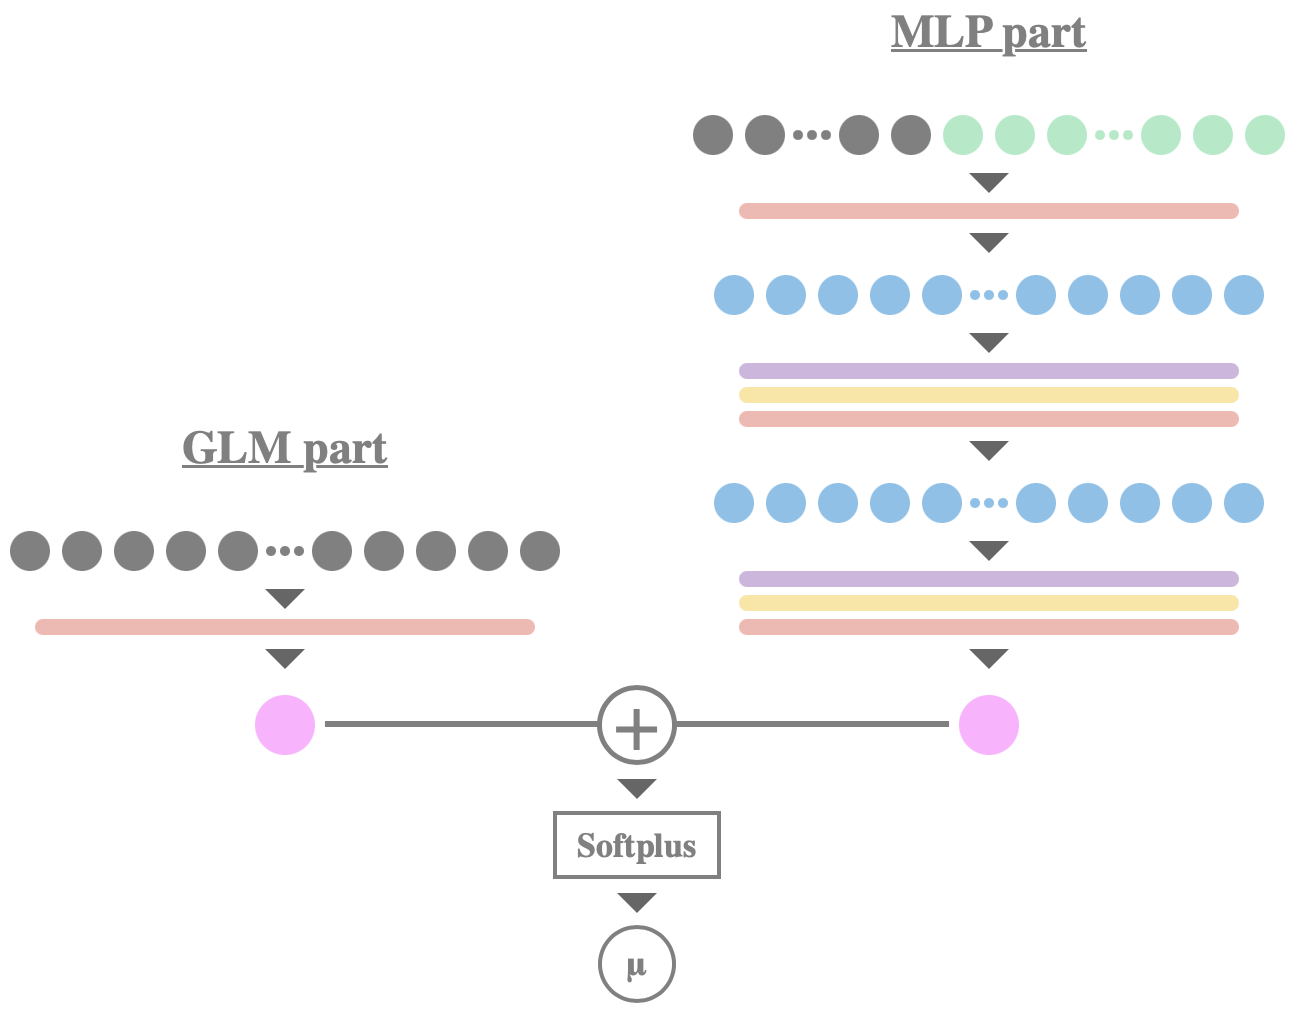
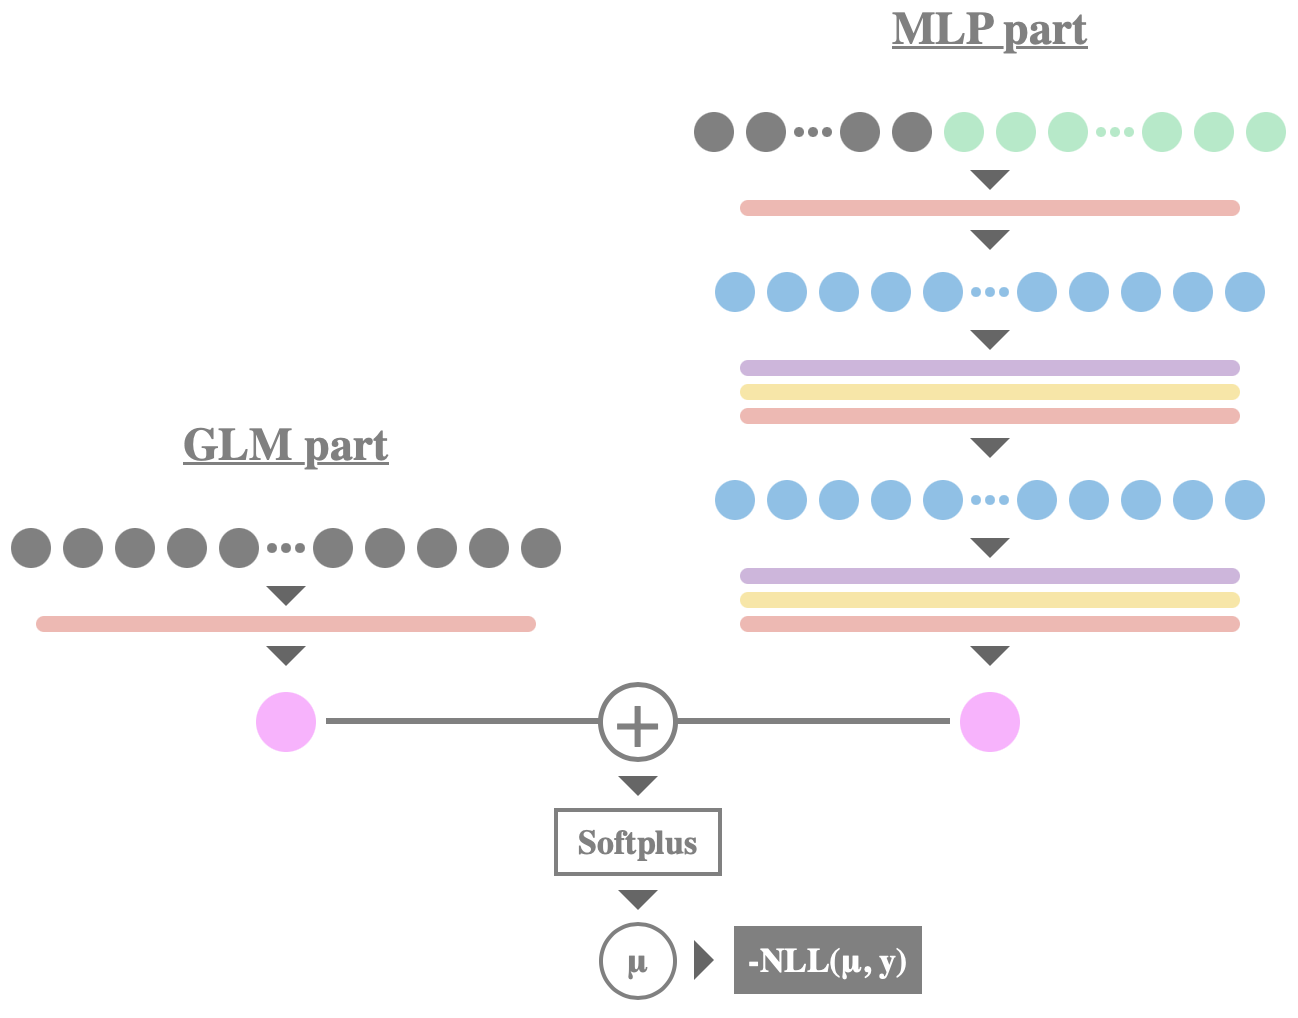
Modifs

diff --git a/xaringan/index.html b/xaringan/index.html
@@ -174,10 +174,10 @@ background-position: 100% 70%
 ---
 `$$\newcommand{\Xcal}{\mathcal{X}}$$`
 # Poisson regression
+
 &lt;div style="margin-top: -60px;"&gt;&lt;/div&gt;
 **Assumptions:**
 - Given its predictors `\(\boldsymbol{x}_i\)`, the PMF of `\(Y_i\)`, the number of claims for contract `\(i\)`, is given by:
-&lt;!-- - For each contract `\(i\)` with predictors `\(\boldsymbol{x}_i\)`, follows a Poisson distribution: --&gt;
 `\begin{align}
 P(Y_i = y_i) = \frac{e^{-\mu(\boldsymbol{x_i})}\mu(\boldsymbol{x_i})^{y_i}}{y_i!}, \quad y_i = 0, 1, \dots,
 \end{align}`
@@ -196,7 +196,6 @@ with
 \underset{\mu}{\text{minimize}} \left\{ -\frac{1}{n} \sum_{i \in \mathcal{T}} y_i \ln\left[\mu(\boldsymbol{x_i})\right] - \mu(\boldsymbol{x}_i)\right\}
 \end{align}`
 
-
 ---
 
 background-image: url(images/PoissonCANN.png)
@@ -207,6 +206,15 @@ background-position: 80% 80%
 
 .pull-left[
 &lt;img src="images/PoissonCANN_legend.png" width="60%" style="display: block; margin: auto auto auto 0;" /&gt;
+&lt;br&gt;
+&lt;br&gt;
+&lt;br&gt;
+&lt;br&gt;
+&lt;br&gt;
+&lt;br&gt;
+&lt;br&gt;
+&lt;br&gt;
+- The output `\(\mu\)` is compared with the response `\(y\)` to compute the negative log-likelihood.
 ]
 
 ---
@@ -230,22 +238,9 @@ with
 - Again, we proceed by minimising the negative log-likelihood.
 - With this specification, we will need a 2-output neural network
 
-&lt;!-- **Minimization problem**: --&gt;
-&lt;!-- \begin{align} --&gt;
-&lt;!-- \underset{\mu, \phi}{\text{minimize}} \left\{-\frac{1}{n} \sum_{i \in \mathcal{T}} y_i \ln[\mu(\boldsymbol{x_i})] - y_i\ln[\phi + \mu(\boldsymbol{x}_i)] + \phi\ln(\phi) -\phi\ln\left[\phi + \mu(\boldsymbol{x}_i)\right] + \ln[\Gamma(\phi + y_i)] - \ln[\Gamma(\phi)]\right\} --&gt;
-&lt;!-- \end{align} --&gt;
-
-&lt;!-- .ecriture-grise[There are 2 parameters to be estimated, we therefore need a 2-output neural network] --&gt;
-
----
-`\(\left(\frac{\phi}{\phi + \mu(\boldsymbol{x}_i)}\right)^\phi\)` est incorrect
-`\(\left(\frac{\mu(\boldsymbol{x}_i)}{\mu(\boldsymbol{x}_i) + \phi}\right)^\phi\)` est correct &lt;br&gt;
-
-`\(\text{Var}(Y_i) = \mu(\boldsymbol{x}_i) + \frac{\mu(\boldsymbol{x}_i)^2}{\phi}\)`
-
 ---
 
-background-image: url(images/PoissonCANN.png)
+background-image: url(images/NB2CANN.png)
 background-size: 60%
 background-position: 80% 80%
 
@@ -253,6 +248,15 @@ background-position: 80% 80%
 
 .pull-left[
 &lt;img src="images/PoissonCANN_legend.png" width="60%" style="display: block; margin: auto auto auto 0;" /&gt;
+&lt;br&gt;
+&lt;br&gt;
+&lt;br&gt;
+&lt;br&gt;
+&lt;br&gt;
+&lt;br&gt;
+&lt;br&gt;
+&lt;br&gt;
+- The outputs `\(\mu\)` and `\(\phi\)` are compared with the response `\(y\)` to compute the negative log-likelihood.
 ]
 
     </textarea>
